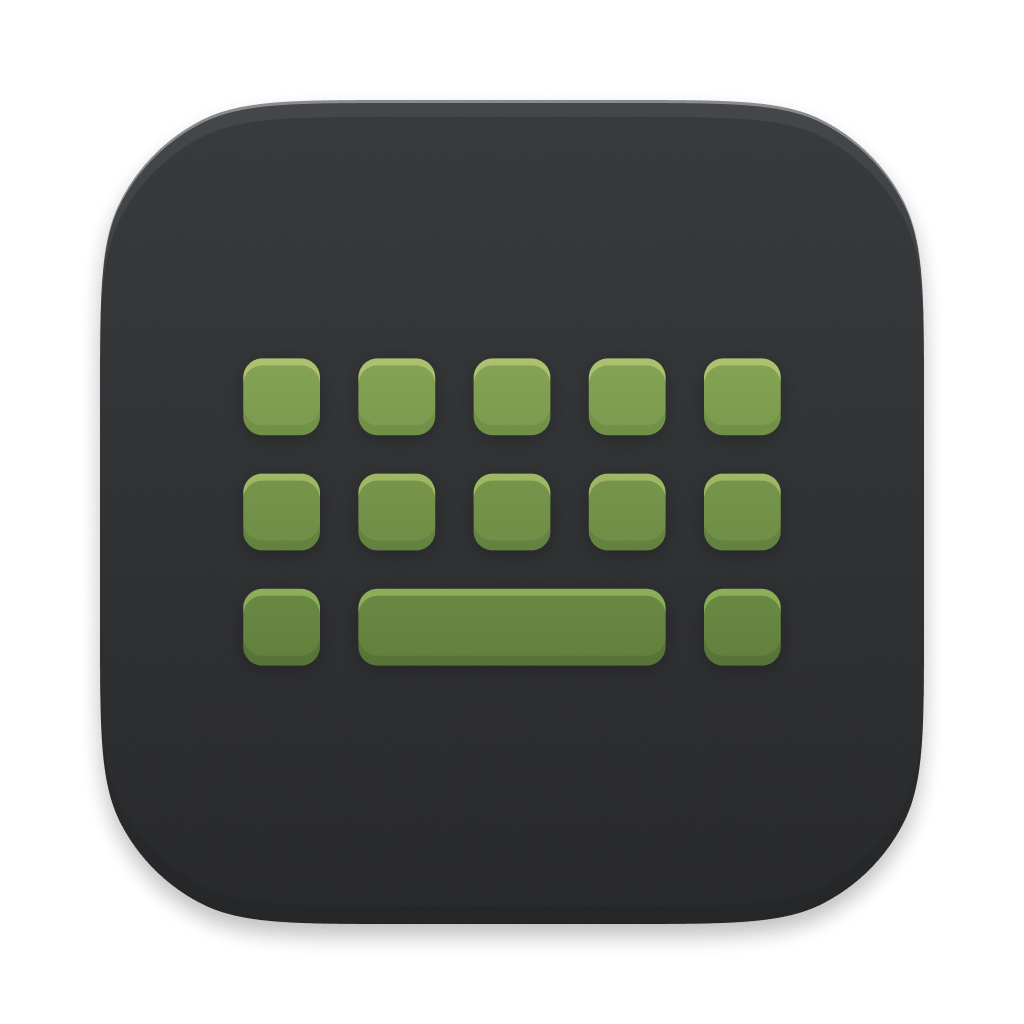
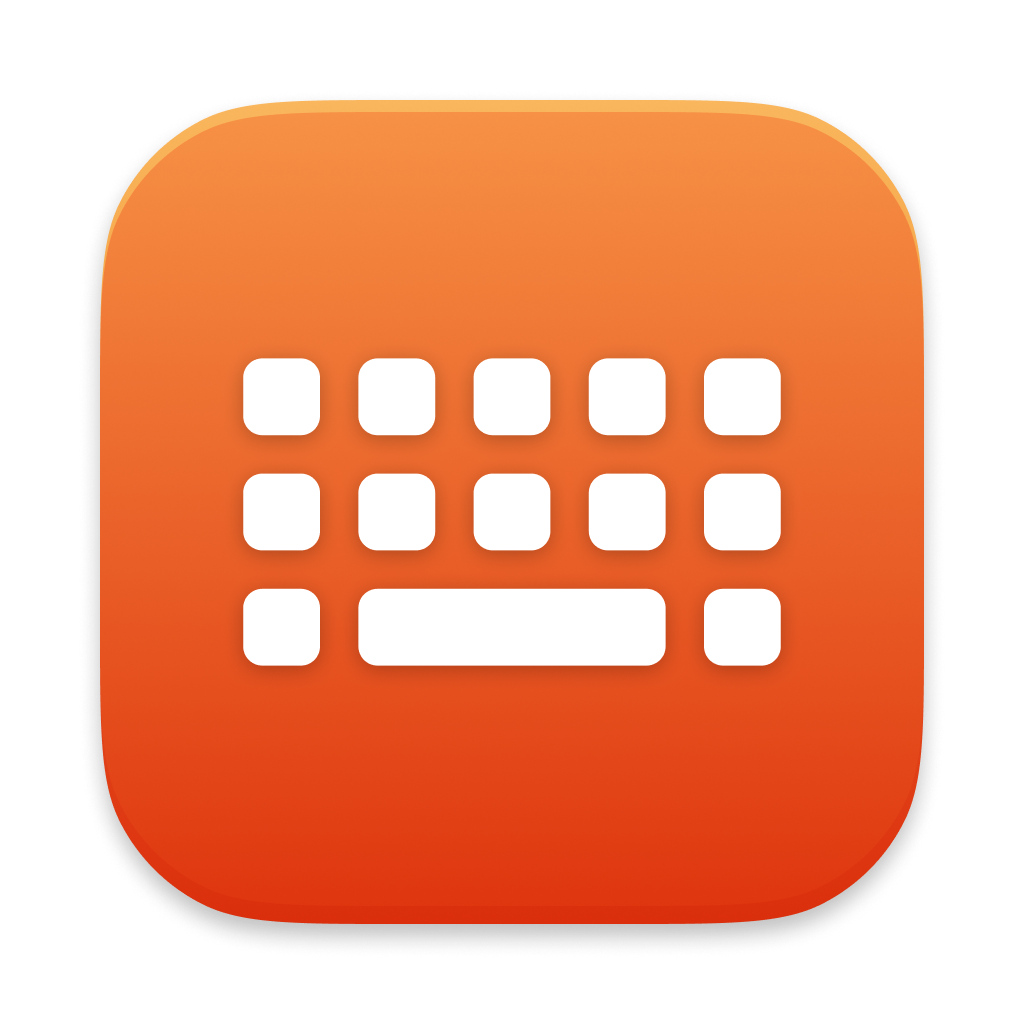
Add screenshot to README; update license formatting

diff --git a/README.md b/README.md
@@ -4,6 +4,8 @@
 
 A macOS menu bar app that remaps keys and pastes text snippets.
 
+<img src="web/screenshot.webp" alt="Screenshot">
+
 - **Key remapping** — single keys, modifier combos, double-tap sequences
 - **Input source toggle** — cycle keyboard languages with a single key (e.g. caps lock)
 - **Snippet picker** — trigger a floating picker with a keystroke, filter and paste
@@ -80,6 +82,6 @@ When the snippet picker opens, type to filter, use arrow keys to navigate, Enter
 
 **Media keys** (input only): `brightness_up`, `brightness_down`, `volume_up`, `volume_down`, `mute`, `play`, `next`, `previous`, `illumination_up`, `illumination_down`.
 
-## License
+---
 
-MIT
+License: MIT